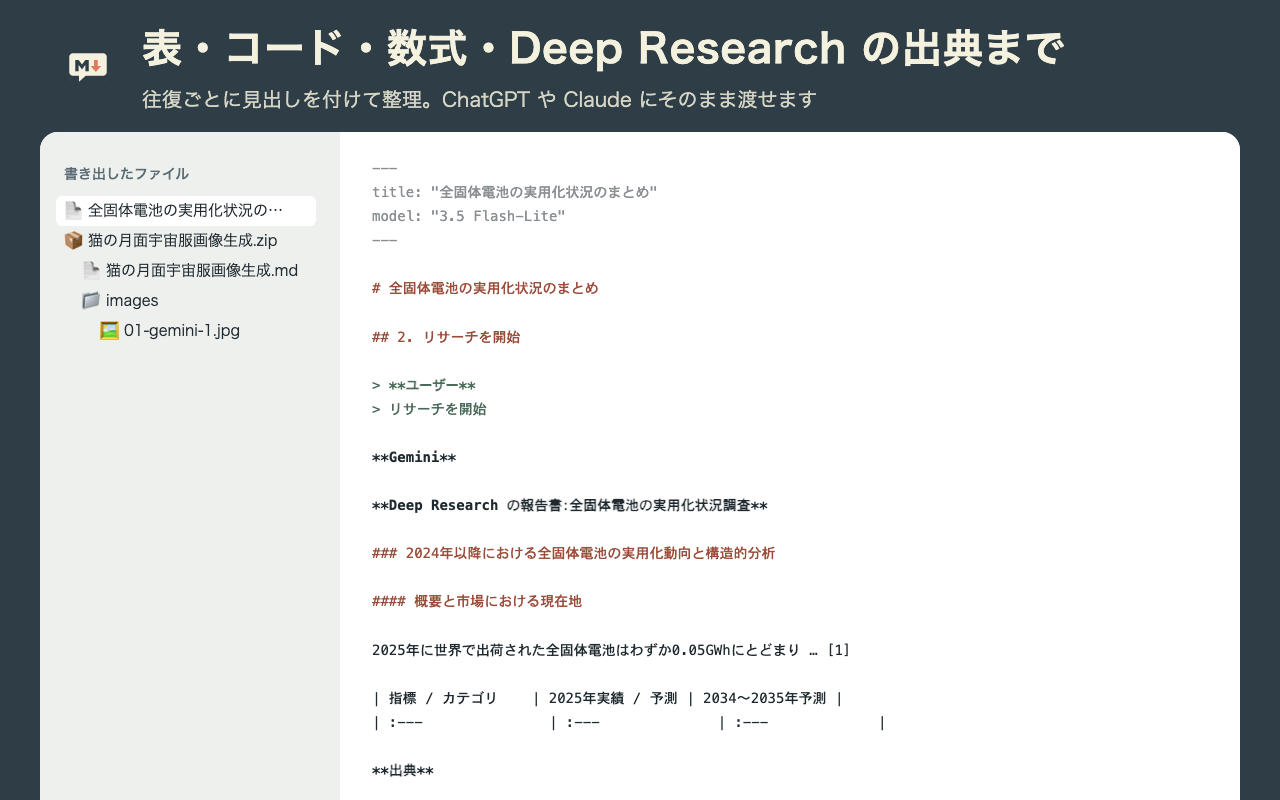
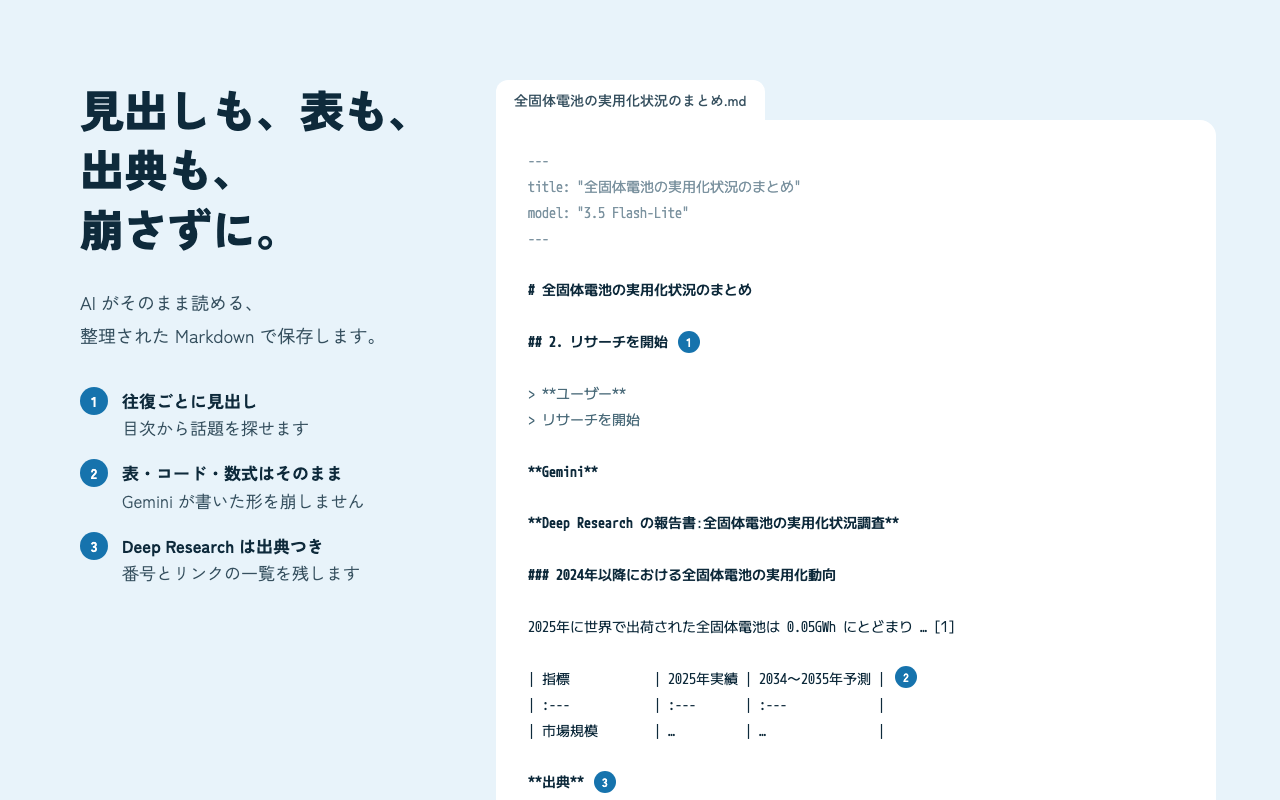
ストア画像とアイコンを水色基調に作り直す
- スクリーンショット・宣伝用画像を Claude Design で作り直し、その HTML を store/src/ に置く
- アイコンを空色の角丸に白い吹き出しと「M↓」の形にする
- ポップアップのボタンの色をアイコンに合わせる

diff --git a/store/src/screenshot2.html b/store/src/screenshot2.html
@@ -2,81 +2,56 @@
 <html lang="ja">
 <head>
 <meta charset="utf-8">
-<link rel="stylesheet" href="common.css">
+<title>書き出される Markdown</title>
+<!-- Claude Design のキャンバスから書き出したもの。PNG にする手順は store/listing.md を参照 -->
+<link rel="preconnect" href="https://fonts.googleapis.com">
+<link rel="stylesheet" href="https://fonts.googleapis.com/css2?family=Zen+Kaku+Gothic+New:wght@400;500;700;900&amp;family=M+PLUS+1+Code:wght@400;600&amp;display=swap">
 <style>
-  .stage { display: flex; }
-  .files {
-    width: 300px;
-    padding: 28px 24px;
-    background: #eef0ee;
-    font-size: 15px;
-    line-height: 2;
-  }
-  .files h2 { font-size: 14px; color: #5b6b73; font-weight: 600; margin-bottom: 8px; }
-  .files .d { padding-left: 18px; }
-  .files .sel { background: #fff; border-radius: 6px; padding: 0 8px; margin-left: -8px; }
-  .md {
-    flex: 1;
-    padding: 24px 32px;
-    font-size: 14px;
-    line-height: 1.72;
-    white-space: pre;
-    overflow: hidden;
-    background: #fff;
-  }
-  .k { color: #9a4d3a; }      /* 見出し */
-  .q { color: #4a6b5a; }      /* 引用（質問） */
-  .m { color: #8a8f93; }      /* 先頭の情報 */
-  .b { font-weight: 700; }
-  .l { color: #2f6db5; }      /* リンク */
+body{margin:0}
+a{color:#1673AD}a:hover{color:#0F5480}
 </style>
 </head>
 <body>
-  <div class="caption">
-    <img src="../../extension/icons/icon128.png" alt="">
-    <div>
-      <h1>表・コード・数式・Deep Research の出典まで</h1>
-      <p>往復ごとに見出しを付けて整理。ChatGPT や Claude にそのまま渡せます</p>
+<div style="width: 1280px; height: 800px; box-sizing: border-box; background: #E8F3FA; font-family: 'Zen Kaku Gothic New', sans-serif; color: #0E2A3B; display: flex; gap: 56px; padding: 80px 64px 0 80px; overflow: hidden">
+  <div style="width: 360px; flex-shrink: 0; display: flex; flex-direction: column; gap: 28px">
+    <h1 style="margin: 0; font-size: 44px; line-height: 1.35; font-weight: 900">見出しも、表も、<br>出典も、<br>崩さずに。</h1>
+    <p style="margin: 0; font-size: 18px; line-height: 1.8; color: #36505F">AI がそのまま読める、<br>整理された Markdown で保存します。</p>
+    <div style="display: flex; flex-direction: column; gap: 18px; margin-top: 8px">
+      <div style="display: flex; gap: 14px; align-items: flex-start">
+        <span style="width: 28px; height: 28px; flex-shrink: 0; border-radius: 999px; background: #1673AD; color: #FFFFFF; font-size: 14px; font-weight: 700; display: flex; align-items: center; justify-content: center">1</span>
+        <div style="font-size: 17px; line-height: 1.6"><b style="font-weight: 700">往復ごとに見出し</b><br><span style="color: #36505F">目次から話題を探せます</span></div>
+      </div>
+      <div style="display: flex; gap: 14px; align-items: flex-start">
+        <span style="width: 28px; height: 28px; flex-shrink: 0; border-radius: 999px; background: #1673AD; color: #FFFFFF; font-size: 14px; font-weight: 700; display: flex; align-items: center; justify-content: center">2</span>
+        <div style="font-size: 17px; line-height: 1.6"><b style="font-weight: 700">表・コード・数式はそのまま</b><br><span style="color: #36505F">Gemini が書いた形を崩しません</span></div>
+      </div>
+      <div style="display: flex; gap: 14px; align-items: flex-start">
+        <span style="width: 28px; height: 28px; flex-shrink: 0; border-radius: 999px; background: #1673AD; color: #FFFFFF; font-size: 14px; font-weight: 700; display: flex; align-items: center; justify-content: center">3</span>
+        <div style="font-size: 17px; line-height: 1.6"><b style="font-weight: 700">Deep Research は出典つき</b><br><span style="color: #36505F">番号とリンクの一覧を残します</span></div>
+      </div>
     </div>
   </div>
-  <div class="stage">
-    <div class="files">
-      <h2>書き出したファイル</h2>
-      <div class="sel">📄 全固体電池の実用化状況の…</div>
-      <div>📦 猫の月面宇宙服画像生成.zip</div>
-      <div class="d">📄 猫の月面宇宙服画像生成.md</div>
-      <div class="d">📁 images</div>
-      <div class="d" style="padding-left:36px">🖼 01-gemini-1.jpg</div>
-    </div>
-<div class="md mono"><span class="m">---
+  <div style="flex: 1; display: flex; flex-direction: column; min-width: 0">
+    <div style="align-self: flex-start; font-size: 14px; font-weight: 500; padding: 10px 18px; background: #FFFFFF; border-radius: 12px 12px 0 0; color: #36505F">全固体電池の実用化状況のまとめ.md</div>
+    <div style="flex: 1; background: #FFFFFF; border-radius: 0 16px 0 0; padding: 28px 32px; font-family: 'M PLUS 1 Code', monospace; font-size: 14px; line-height: 1.85; white-space: pre; overflow: hidden; color: #0E2A3B"><div style="color: #7C93A0">---
 title: "全固体電池の実用化状況のまとめ"
 model: "3.5 Flash-Lite"
----</span>
-
-<span class="k"># 全固体電池の実用化状況のまとめ</span>
-
-<span class="k">## 2. リサーチを開始</span>
-
-<span class="q">&gt; <span class="b">**ユーザー**</span>
-&gt; リサーチを開始</span>
-
-<span class="b">**Gemini**</span>
-
-<span class="b">**Deep Research の報告書：全固体電池の実用化状況調査**</span>
-
-<span class="k">### 2024年以降における全固体電池の実用化動向と構造的分析</span>
-
-<span class="k">#### 概要と市場における現在地</span>
-
-2025年に世界で出荷された全固体電池はわずか0.05GWhにとどまり … [1]
-
-| 指標 / カテゴリ    | 2025年実績 / 予測 | 2034〜2035年予測 |
-| :---               | :---              | :---             |
-
-<span class="b">**出典**</span>
-
-1. <span class="l">[全固体電池の目標年は動き続けている｜ZERO 科学と事業のあいだ](https://note.com/…)</span>
-2. <span class="l">[CAGR 32.5％、電気自動車・次世代モビリティ向け全固体電池の…](https://www.atpress.ne.jp/…)</span></div>
+---</div>
+<div style="font-weight: 600"># 全固体電池の実用化状況のまとめ</div>
+<div style="display: flex; align-items: center; gap: 10px"><span style="font-weight: 600">## 2. リサーチを開始</span><span style="font-family: 'Zen Kaku Gothic New', sans-serif; width: 22px; height: 22px; border-radius: 999px; background: #1673AD; color: #FFFFFF; font-size: 12px; font-weight: 700; display: inline-flex; align-items: center; justify-content: center">1</span></div>
+<div style="color: #4B6B7A">&gt; **ユーザー**
+&gt; リサーチを開始</div>
+<div style="font-weight: 600">**Gemini**</div>
+<div style="font-weight: 600">**Deep Research の報告書：全固体電池の実用化状況調査**</div>
+<div style="font-weight: 600">### 2024年以降における全固体電池の実用化動向</div>
+<div>2025年に世界で出荷された全固体電池は 0.05GWh にとどまり … [1]</div>
+<div style="display: flex; align-items: flex-start; gap: 10px"><span>| 指標            | 2025年実績 | 2034〜2035年予測 |
+| :---            | :---       | :---             |
+| 市場規模        | …          | …                |</span><span style="font-family: 'Zen Kaku Gothic New', sans-serif; width: 22px; height: 22px; border-radius: 999px; background: #1673AD; color: #FFFFFF; font-size: 12px; font-weight: 700; display: inline-flex; align-items: center; justify-content: center">2</span></div>
+<div style="display: flex; align-items: center; gap: 10px"><span style="font-weight: 600">**出典**</span><span style="font-family: 'Zen Kaku Gothic New', sans-serif; width: 22px; height: 22px; border-radius: 999px; background: #1673AD; color: #FFFFFF; font-size: 12px; font-weight: 700; display: inline-flex; align-items: center; justify-content: center">3</span></div>
+<div style="color: #1673AD">1. [全固体電池の目標年は動き続けている](https://note.com/…)
+2. [CAGR 32.5％、次世代モビリティ向け全固体電池…](https://www.atpress.ne.jp/…)</div></div>
   </div>
+</div>
 </body>
 </html>

diff --git a/store/src/screenshot3.html b/store/src/screenshot3.html
@@ -2,60 +2,53 @@
 <html lang="ja">
 <head>
 <meta charset="utf-8">
-<link rel="stylesheet" href="common.css">
+<title>できること</title>
+<!-- Claude Design のキャンバスから書き出したもの。PNG にする手順は store/listing.md を参照 -->
+<link rel="preconnect" href="https://fonts.googleapis.com">
+<link rel="stylesheet" href="https://fonts.googleapis.com/css2?family=Zen+Kaku+Gothic+New:wght@400;500;700;900&amp;display=swap">
 <style>
-  .stage {
-    display: grid;
-    grid-template-columns: 1fr 1fr;
-    gap: 22px;
-    padding: 36px 40px;
-    background: #f4f1de;
-    align-content: start;
-  }
-  .card {
-    background: #fff;
-    border-radius: 14px;
-    padding: 22px 26px;
-    min-height: 170px;
-  }
-  .card h3 { font-size: 24px; margin-bottom: 8px; }
-  .card h3 span { color: #e07a5f; margin-right: 8px; }
-  .card p { font-size: 18px; line-height: 1.65; color: #44525a; }
+body{margin:0}
+a{color:#1673AD}a:hover{color:#0F5480}
 </style>
 </head>
 <body>
-  <div class="caption">
-    <img src="../../extension/icons/icon128.png" alt="">
-    <div>
-      <h1>長い会話も、取りこぼさずに</h1>
-      <p>画面に表示されていない部分も含めて、最初から最後まで書き出します</p>
+<div style="width: 1280px; height: 800px; box-sizing: border-box; background: #E8F3FA; font-family: 'Zen Kaku Gothic New', sans-serif; color: #0E2A3B; padding: 76px 80px 0; display: flex; flex-direction: column; gap: 44px; overflow: hidden">
+  <div style="display: flex; align-items: flex-end; justify-content: space-between; gap: 40px">
+    <h1 style="margin: 0; font-size: 46px; line-height: 1.35; font-weight: 900">長い会話も、画像も、<br>取りこぼさない。</h1>
+    <p style="margin: 0 0 6px; font-size: 18px; line-height: 1.8; color: #36505F; text-align: right">画面に表示されていない前半も含めて、<br>最初から最後まで書き出します。</p>
+  </div>
+  <div style="flex: 1; background: #FFFFFF; border-radius: 20px 20px 0 0; padding: 12px 48px; display: grid; grid-template-columns: repeat(3, minmax(0, 1fr)); column-gap: 48px">
+    <div style="padding: 36px 0 30px; border-bottom: 1px solid #D6E6F0; display: flex; flex-direction: column; gap: 12px">
+      <svg width="30" height="30" viewBox="0 0 24 24" fill="none" stroke="#1673AD" stroke-width="1.8" stroke-linecap="round" stroke-linejoin="round" aria-hidden="true"><rect x="4" y="11" width="16" height="10" rx="2"></rect><path d="M8 11V7a4 4 0 0 1 8 0v4"></path></svg>
+      <div style="font-size: 21px; font-weight: 700">会話を公開しなくていい</div>
+      <div style="font-size: 16px; line-height: 1.7; color: #36505F">自分の会話のページからそのまま書き出せます。共有リンクのページでも使えます。</div>
+    </div>
+    <div style="padding: 36px 0 30px; border-bottom: 1px solid #D6E6F0; display: flex; flex-direction: column; gap: 12px">
+      <svg width="30" height="30" viewBox="0 0 24 24" fill="none" stroke="#1673AD" stroke-width="1.8" stroke-linecap="round" stroke-linejoin="round" aria-hidden="true"><rect x="3" y="4" width="18" height="16" rx="2"></rect><circle cx="9" cy="10" r="1.6"></circle><path d="M21 16l-5-5-9 9"></path></svg>
+      <div style="font-size: 21px; font-weight: 700">画像を原寸で</div>
+      <div style="font-size: 16px; line-height: 1.7; color: #36505F">添付した画像も Gemini が作った画像も、Markdown と一緒に zip で保存します。</div>
+    </div>
+    <div style="padding: 36px 0 30px; border-bottom: 1px solid #D6E6F0; display: flex; flex-direction: column; gap: 12px">
+      <svg width="30" height="30" viewBox="0 0 24 24" fill="none" stroke="#1673AD" stroke-width="1.8" stroke-linecap="round" stroke-linejoin="round" aria-hidden="true"><path d="M14 3H7a2 2 0 0 0-2 2v14a2 2 0 0 0 2 2h10a2 2 0 0 0 2-2V8z"></path><path d="M14 3v5h5"></path><path d="M9 13h6"></path><path d="M9 17h6"></path></svg>
+      <div style="font-size: 21px; font-weight: 700">Canvas・Deep Research</div>
+      <div style="font-size: 16px; line-height: 1.7; color: #36505F">Canvas の最終版、Deep Research の調査計画と報告書も、出典の一覧つきで。</div>
+    </div>
+    <div style="padding: 32px 0; display: flex; flex-direction: column; gap: 12px">
+      <svg width="30" height="30" viewBox="0 0 24 24" fill="none" stroke="#1673AD" stroke-width="1.8" stroke-linecap="round" stroke-linejoin="round" aria-hidden="true"><path d="M12 3l7 3v5c0 5-3 8.5-7 10-4-1.5-7-5-7-10V6z"></path><path d="M9 12l2 2 4-4"></path></svg>
+      <div style="font-size: 21px; font-weight: 700">外部に送らない</div>
+      <div style="font-size: 16px; line-height: 1.7; color: #36505F">処理はブラウザの中だけ。会話の中身を開発者や第三者に送ることはありません。</div>
+    </div>
+    <div style="padding: 32px 0; display: flex; flex-direction: column; gap: 12px">
+      <svg width="30" height="30" viewBox="0 0 24 24" fill="none" stroke="#1673AD" stroke-width="1.8" stroke-linecap="round" stroke-linejoin="round" aria-hidden="true"><path d="M12 21s-6-5.5-6-11a6 6 0 0 1 12 0c0 5.5-6 11-6 11z"></path><circle cx="12" cy="10" r="2.2"></circle></svg>
+      <div style="font-size: 21px; font-weight: 700">マップ・Gem・作った曲も</div>
+      <div style="font-size: 16px; line-height: 1.7; color: #36505F">地図や地名のリンク、Gem の名前、Gemini が作った曲の名前も残します。</div>
+    </div>
+    <div style="padding: 32px 0; display: flex; flex-direction: column; gap: 12px">
+      <svg width="30" height="30" viewBox="0 0 24 24" fill="none" stroke="#1673AD" stroke-width="1.8" stroke-linecap="round" stroke-linejoin="round" aria-hidden="true"><path d="M9 8l-4 4 4 4"></path><path d="M15 8l4 4-4 4"></path><path d="M13 6l-2 12"></path></svg>
+      <div style="font-size: 21px; font-weight: 700">無料・ソースコード公開</div>
+      <div style="font-size: 16px; line-height: 1.7; color: #36505F">広告はありません。中身は GitHub で誰でも確かめられます。</div>
     </div>
   </div>
-  <div class="stage">
-    <div class="card">
-      <h3><span>●</span>会話を公開しなくていい</h3>
-      <p>自分の会話のページからそのまま書き出せます。共有リンクのページでも使えます。</p>
-    </div>
-    <div class="card">
-      <h3><span>●</span>画像を原寸で</h3>
-      <p>添付した画像も Gemini が作った画像も、Markdown とまとめて zip で保存します。</p>
-    </div>
-    <div class="card">
-      <h3><span>●</span>Canvas・Deep Research</h3>
-      <p>Canvas の最終版、Deep Research の調査計画と報告書（出典の一覧つき）も書き出します。</p>
-    </div>
-    <div class="card">
-      <h3><span>●</span>外部に送らない</h3>
-      <p>処理はすべてブラウザの中だけ。会話の中身を開発者や第三者に送ることはありません。</p>
-    </div>
-    <div class="card">
-      <h3><span>●</span>マップ・Gem・作った曲も</h3>
-      <p>地図や地名のリンク、Gem の名前、Gemini が作った曲の名前も、分かる形で残します。</p>
-    </div>
-    <div class="card">
-      <h3><span>●</span>ソースコードを公開</h3>
-      <p>中身は GitHub で誰でも確認できます。無料で、広告もありません。</p>
-    </div>
-  </div>
+</div>
 </body>
 </html>

diff --git a/store/src/screenshot1.html b/store/src/screenshot1.html
@@ -2,44 +2,40 @@
 <html lang="ja">
 <head>
 <meta charset="utf-8">
-<link rel="stylesheet" href="common.css">
+<title>ボタン1つで書き出す</title>
+<!-- Claude Design のキャンバスから書き出したもの。PNG にする手順は store/listing.md を参照 -->
+<link rel="preconnect" href="https://fonts.googleapis.com">
+<link rel="stylesheet" href="https://fonts.googleapis.com/css2?family=Zen+Kaku+Gothic+New:wght@400;500;700;900&amp;display=swap">
 <style>
-  .page { position: absolute; left: 0; top: 0; width: 1200px; }
-  /* ポップアップは extension/popup.html と同じ見た目 */
-  .popup {
-    position: absolute;
-    right: 28px; top: 18px;
-    width: 340px;
-    padding: 18px 20px 20px;
-    background: #fff;
-    border-radius: 10px;
-    box-shadow: 0 8px 30px rgba(0, 0, 0, 0.22);
-    font-size: 15px;
-    line-height: 1.5;
-  }
-  .popup .t { font-weight: 600; margin-bottom: 12px; }
-  .popup button {
-    width: 100%; padding: 10px 0; border: 0; border-radius: 20px;
-    background: #0b57d0; color: #fff; font: inherit; font-weight: 600;
-  }
-  .popup .s { margin-top: 12px; }
+body{margin:0}
+a{color:#1E88C8}a:hover{color:#156A9C}
 </style>
 </head>
 <body>
-  <div class="caption">
-    <img src="../../extension/icons/icon128.png" alt="">
-    <div>
-      <h1>ボタン1つで、Gemini の会話を Markdown に</h1>
-      <p>自分の会話でも共有リンクでも。画像も原寸でまとめて保存します</p>
+<div style="width: 1280px; height: 800px; box-sizing: border-box; background: #E8F3FA; font-family: 'Zen Kaku Gothic New', sans-serif; color: #0E2A3B; display: flex; align-items: center; gap: 48px; padding: 0 64px 0 80px; position: relative; overflow: hidden">
+  <div style="width: 520px; flex-shrink: 0; display: flex; flex-direction: column; gap: 28px">
+    <div style="display: flex; align-items: center; gap: 12px">
+      <svg width="40" height="40" viewBox="0 0 96 96" aria-hidden="true"><rect width="96" height="96" rx="22" fill="#1E88C8"></rect><path d="M20 24h56a6 6 0 0 1 6 6v30a6 6 0 0 1-6 6H44l-14 12V66H20a6 6 0 0 1-6-6V30a6 6 0 0 1 6-6z" fill="#FFFFFF"></path><path d="M26 56V34h7l6 9 6-9h7v22h-7V45l-6 8-6-8v11z" fill="#0E2A3B"></path><path d="M62 34h7v11h6L65.5 57 56 45h6z" fill="#1E88C8"></path></svg>
+      <span style="font-size: 18px; font-weight: 700; letter-spacing: 0.01em">Chat to Markdown for Gemini</span>
+    </div>
+    <h1 style="margin: 0; font-size: 54px; line-height: 1.3; font-weight: 900; letter-spacing: 0.01em">Gemini の会話を、<br>そのまま<br>Markdown に。</h1>
+    <p style="margin: 0; font-size: 20px; line-height: 1.8; color: #36505F">会話を開いて、ボタンを押すだけ。<br>ChatGPT や Claude に渡して、<br>続きから話せます。</p>
+    <div style="display: flex; gap: 10px; flex-wrap: wrap">
+      <span style="font-size: 15px; font-weight: 500; padding: 7px 14px; border-radius: 999px; background: #FFFFFF; color: #0E2A3B">自分の会話でも</span>
+      <span style="font-size: 15px; font-weight: 500; padding: 7px 14px; border-radius: 999px; background: #FFFFFF; color: #0E2A3B">共有リンクでも</span>
+      <span style="font-size: 15px; font-weight: 500; padding: 7px 14px; border-radius: 999px; background: #FFFFFF; color: #0E2A3B">画像も原寸で</span>
     </div>
   </div>
-  <div class="stage">
-    <img class="page" src="gemini-page.png" alt="">
-    <div class="popup">
-      <div class="t">猫の月面宇宙服画像生成</div>
-      <button>ファイルに保存</button>
-      <div class="s">保存しました（1 往復、画像 1 枚）</div>
+  <div style="flex: 1; position: relative; height: 520px">
+    <div style="position: absolute; left: 0; top: 90px; width: 568px; border-radius: 16px; overflow: hidden; background: #FFFFFF; box-shadow: 0 1px 2px rgba(14,42,59,0.06), 0 20px 48px rgba(14,42,59,0.12)">
+      <img src="gemini-page.png" alt="Gemini の会話の画面" style="display: block; width: 568px; height: 301px; object-fit: cover; object-position: center top">
+    </div>
+    <div style="position: absolute; right: 0; top: 20px; width: 280px; box-sizing: border-box; padding: 18px 20px 20px; background: #FFFFFF; border-radius: 12px; box-shadow: 0 2px 6px rgba(14,42,59,0.08), 0 24px 56px rgba(14,42,59,0.18); font-size: 14px; line-height: 1.5">
+      <div style="font-weight: 700; margin-bottom: 12px">猫の月面宇宙服画像生成</div>
+      <button type="button" style="width: 100%; padding: 10px 0; border: 0; border-radius: 999px; background: #1673AD; color: #FFFFFF; font-family: inherit; font-size: 14px; font-weight: 700">ファイルに保存</button>
+      <div style="margin-top: 12px; color: #36505F">保存しました（1 往復、画像 1 枚）</div>
     </div>
   </div>
+</div>
 </body>
 </html>

diff --git a/store/src/promo-small.html b/store/src/promo-small.html
@@ -2,28 +2,21 @@
 <html lang="ja">
 <head>
 <meta charset="utf-8">
+<title>小さい宣伝用画像</title>
+<!-- Claude Design のキャンバスから書き出したもの。PNG にする手順は store/listing.md を参照 -->
+<link rel="preconnect" href="https://fonts.googleapis.com">
+<link rel="stylesheet" href="https://fonts.googleapis.com/css2?family=Zen+Kaku+Gothic+New:wght@500;700;900&amp;display=swap">
 <style>
-  * { box-sizing: border-box; margin: 0; padding: 0; }
-  html, body { width: 440px; height: 280px; overflow: hidden; }
-  body {
-    font-family: "Hiragino Sans", "Hiragino Kaku Gothic ProN", "Noto Sans JP", sans-serif;
-    background: #2f3e46;
-    color: #f4f1de;
-    display: flex;
-    flex-direction: column;
-    align-items: center;
-    justify-content: center;
-    gap: 14px;
-    text-align: center;
-  }
-  img { width: 112px; height: 112px; }
-  h1 { font-size: 26px; font-weight: 700; }
-  p { font-size: 15px; opacity: 0.85; }
+body{margin:0}
 </style>
 </head>
 <body>
-  <img src="../../extension/icons/icon128.png" alt="">
-  <h1>Chat to Markdown for Gemini</h1>
-  <p>Gemini の会話を、画像ごと Markdown に</p>
+<div style="width: 440px; height: 280px; box-sizing: border-box; background: #E8F3FA; font-family: 'Zen Kaku Gothic New', sans-serif; color: #0E2A3B; padding: 40px 40px; display: flex; flex-direction: column; justify-content: space-between; overflow: hidden">
+  <svg width="64" height="64" viewBox="0 0 96 96" aria-hidden="true"><rect width="96" height="96" rx="22" fill="#1E88C8"></rect><path d="M20 24h56a6 6 0 0 1 6 6v30a6 6 0 0 1-6 6H44l-14 12V66H20a6 6 0 0 1-6-6V30a6 6 0 0 1 6-6z" fill="#FFFFFF"></path><path d="M26 56V34h7l6 9 6-9h7v22h-7V45l-6 8-6-8v11z" fill="#0E2A3B"></path><path d="M62 34h7v11h6L65.5 57 56 45h6z" fill="#1E88C8"></path></svg>
+  <div style="display: flex; flex-direction: column; gap: 8px">
+    <div style="font-size: 30px; line-height: 1.25; font-weight: 900">Gemini の会話を、<br>そのまま Markdown に。</div>
+    <div style="font-size: 15px; font-weight: 500; color: #36505F">Chat to Markdown for Gemini</div>
+  </div>
+</div>
 </body>
 </html>

diff --git a/extension/popup.html b/extension/popup.html
@@ -8,7 +8,7 @@
       margin: 0;
       padding: 14px 16px;
       font: 13px/1.5 -apple-system, "Hiragino Sans", "Noto Sans JP", sans-serif;
-      color: #1f1f1f;
+      color: #0E2A3B;
     }
     #title {
       font-weight: 600;
@@ -19,8 +19,8 @@
       width: 100%;
       padding: 8px 0;
       border: 0;
-      border-radius: 18px;
-      background: #0b57d0;
+      border-radius: 999px;
+      background: #1673AD;
       color: #fff;
       font: inherit;
       font-weight: 600;

diff --git a/store/listing.md b/store/listing.md
@@ -15,6 +15,19 @@
 - サポート：https://github.com/22hym09/chat-to-markdown-for-gemini/issues
 - プライバシーポリシー：https://22hym09.github.io/chat-to-markdown-for-gemini/privacy
 
+## 画像の作り直し方
+
+画像の元は `store/src/*.html`（Claude Design のキャンバスから書き出したもの）。直したら、次のように Chrome で PNG にする。`--virtual-time-budget` は Web フォントの読み込みを待つため。
+
+```bash
+cd store
+C="/Applications/Google Chrome.app/Contents/MacOS/Google Chrome"
+for n in screenshot1 screenshot2 screenshot3; do "$C" --headless --hide-scrollbars --force-device-scale-factor=1 --virtual-time-budget=8000 --window-size=1280,800 --screenshot="$PWD/$n.png" "file://$PWD/src/$n.html"; done
+"$C" --headless --hide-scrollbars --force-device-scale-factor=1 --virtual-time-budget=8000 --window-size=440,280 --screenshot="$PWD/promo-small.png" "file://$PWD/src/promo-small.html"
+```
+
+配色：地 #E8F3FA、文字 #0E2A3B、補助の文字 #36505F、差し色 #1E88C8（ボタンなど白い文字を載せる所は #1673AD）。書体は Zen Kaku Gothic New と M PLUS 1 Code。
+
 ## 概要（132文字以内）
 
 Gemini の会話を、画像も含めて Markdown ファイルに書き出します。非公式の拡張機能で、Google とは関係ありません。
